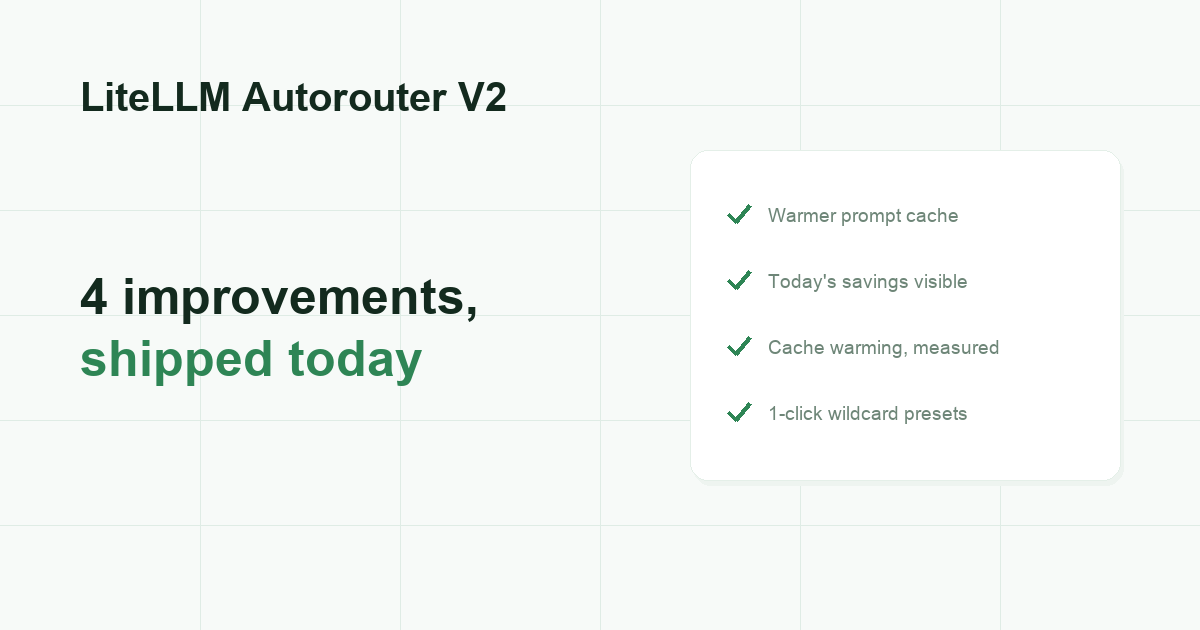
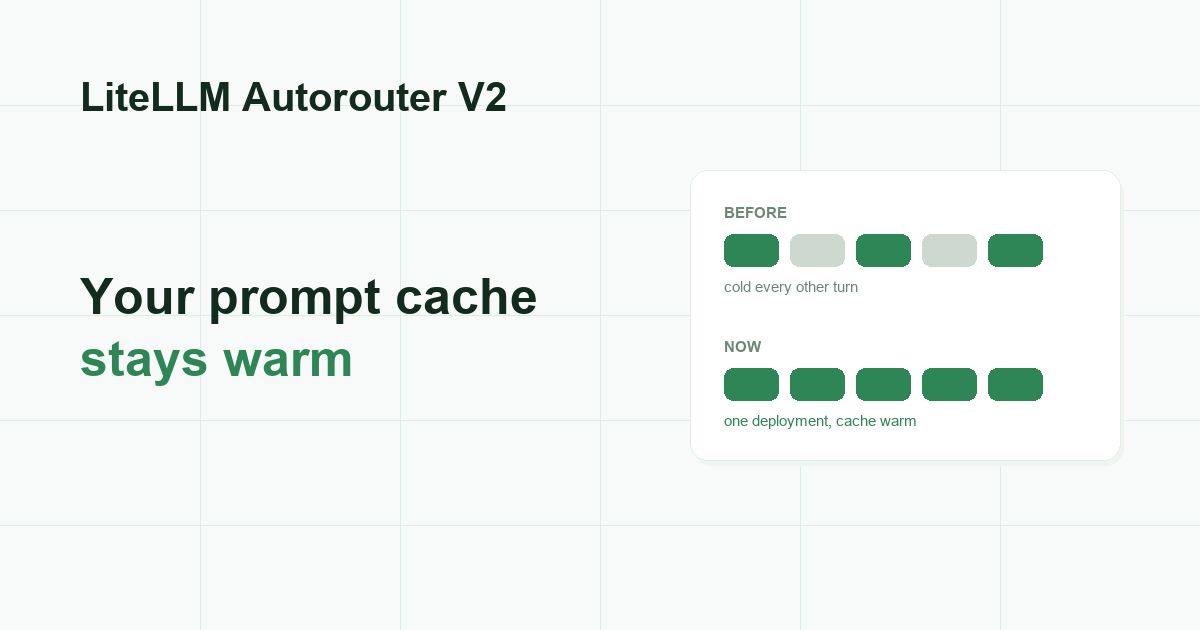
blog: lead with the prompt cache fix

diff --git a/blog/autorouter_aug_improvements/index.md b/blog/autorouter_aug_improvements/index.md
@@ -1,19 +1,19 @@
 ---
-slug: auto-router-improvements-aug-2026
-title: "4 Auto-Router improvements: warmer caches, honest dashboards"
+slug: auto-router-warm-prompt-cache
+title: "Your prompt cache no longer goes cold every other turn"
 date: 2026-08-06T12:00:00
 authors:
   - tin
-description: "Sessions now stick to a single deployment so your prompt cache stays warm, today's savings show up on the dashboard, the expired-miss stat answers whether cache warming is worth it, and 1-click presets work with wildcard models."
+description: "Auto-router sessions now pin to a single deployment instead of a model group, so the provider's prompt cache stays warm for the whole conversation. Plus three smaller fixes to the cost dashboard and 1-click presets."
 image: ./hero.png
 keywords: [auto router, llm routing, prompt caching, session affinity, cost dashboard, litellm, model routing, cost optimization]
 tags: [routing, complexity-router, ui, engineering]
 hide_table_of_contents: false
 ---
 
-![LiteLLM Autorouter V2: 4 improvements](./hero.png)
+![LiteLLM Autorouter V2: your prompt cache stays warm](./hero.png)
 
-Four Auto-Router improvements shipped today. All four come down to the same two things: keeping your prompt cache warm, and showing you the savings you actually earned.
+Prompt caching and auto-routing were quietly fighting each other. As of today they compound.
 
 {/* truncate */}
 
@@ -29,39 +29,24 @@ Already testing it? Share your results in [discussion #32172](https://github.com
 
 :::
 
-## 1. Sessions now stick to one deployment, not just one model
+## Sessions now stick to one deployment
 
-- Session affinity used to pin a conversation to a **model group**. If that group runs across several deployments, the conversation still bounced between them
-- Every bounce is a cold prompt cache. You pay full price to re-read the same context, roughly every other turn
-- Sessions now pin to the exact deployment that served the first turn, so the provider's cache stays warm for the whole conversation
-- Session pins are also scoped per API key now. Two different keys that happened to use the same session id used to share one pin
+- Session affinity used to pin a conversation to a **model group**
+- If that group runs across several deployments, which is what most production setups look like, the conversation still bounced between them
+- Every bounce lands on a deployment that has never seen the conversation, so the provider cache is cold and you pay full price to re-read the same context
+- On a fanned group that happened roughly every other turn
 
-**Why you care:** prompt caching and auto-routing finally compound instead of fighting each other. See [PR #36146](https://github.com/BerriAI/litellm/pull/36146).
+Sessions now pin to the exact deployment that served the first turn, and the pin lasts for the session's TTL. The conversation stays where its cache lives.
 
-## 2. Today's savings now show up today
+**Why you care:** on long conversations, most of what you send is context you already sent. Keeping the cache warm is the difference between paying for that context once and paying for it over and over.
 
-- Spend is bucketed by UTC day. The dashboard asked for a range ending on **your** local today
-- If you are in Pacific time, everything you sent after 5pm went into tomorrow's UTC bucket and simply did not appear
-- Your dashboard read $0 for the entire evening, every evening, even while the router was saving you money
-- The cost optimization dashboard now includes the current UTC day
+One related fix in the same change: session pins are now scoped per API key. Two different keys that happened to pick the same session id used to share a single pin.
 
-**Why you care:** you can check today's savings today, instead of waiting until tomorrow to find out they existed. See [PR #36051](https://github.com/BerriAI/litellm/pull/36051).
+## Also shipped today
 
-## 3. The expired-miss stat now answers a real question
-
-- Expired misses are the turns where a session came back to a tier after that tier's cache had already expired
-- The percentage was divided only by return visits, which made the number look far worse than reality
-- It is now a share of all measured turns
-
-**Why you care:** the number now tells you whether paying for background cache warming is worth it, which is the only reason to look at it. Tab names got shorter too: "Overall" and "Auto-Router". See [PR #36037](https://github.com/BerriAI/litellm/pull/36037).
-
-## 4. 1-click presets work with wildcard models
-
-- If your models are configured as wildcards (`anthropic/*`, `openai/*`, `bedrock/*`), both family templates showed up greyed out: "Missing: claude-opus-5, claude-sonnet-5"
-- The models were not missing. The template check and the tier dropdown right below it were reading two different lists of your models
-- Templates now expand wildcards the same way the dropdown does
-
-**Why you care:** if you run wildcard deployments, 1-click setup is actually 1 click. See [PR #36111](https://github.com/BerriAI/litellm/pull/36111).
+- **Today's savings show up today.** Spend is bucketed by UTC day, but the dashboard asked for a range ending on your local today. West of UTC, everything after 5pm PT landed in tomorrow's bucket, so the dashboard read $0 all evening, every evening. The cost optimization dashboard now includes the current UTC day
+- **The expired-miss stat answers a real question.** It now measures expired misses as a share of all measured turns instead of only return visits, which is the number you need to decide whether background cache warming is worth paying for. Tab names got shorter too: "Overall" and "Auto-Router"
+- **1-click presets work with wildcard models.** If your models are configured as wildcards (`anthropic/*`, `openai/*`), the family templates showed up greyed out claiming your models were missing. They were not missing; the template check and the tier dropdown were reading two different lists
 
 ## Try it
 
